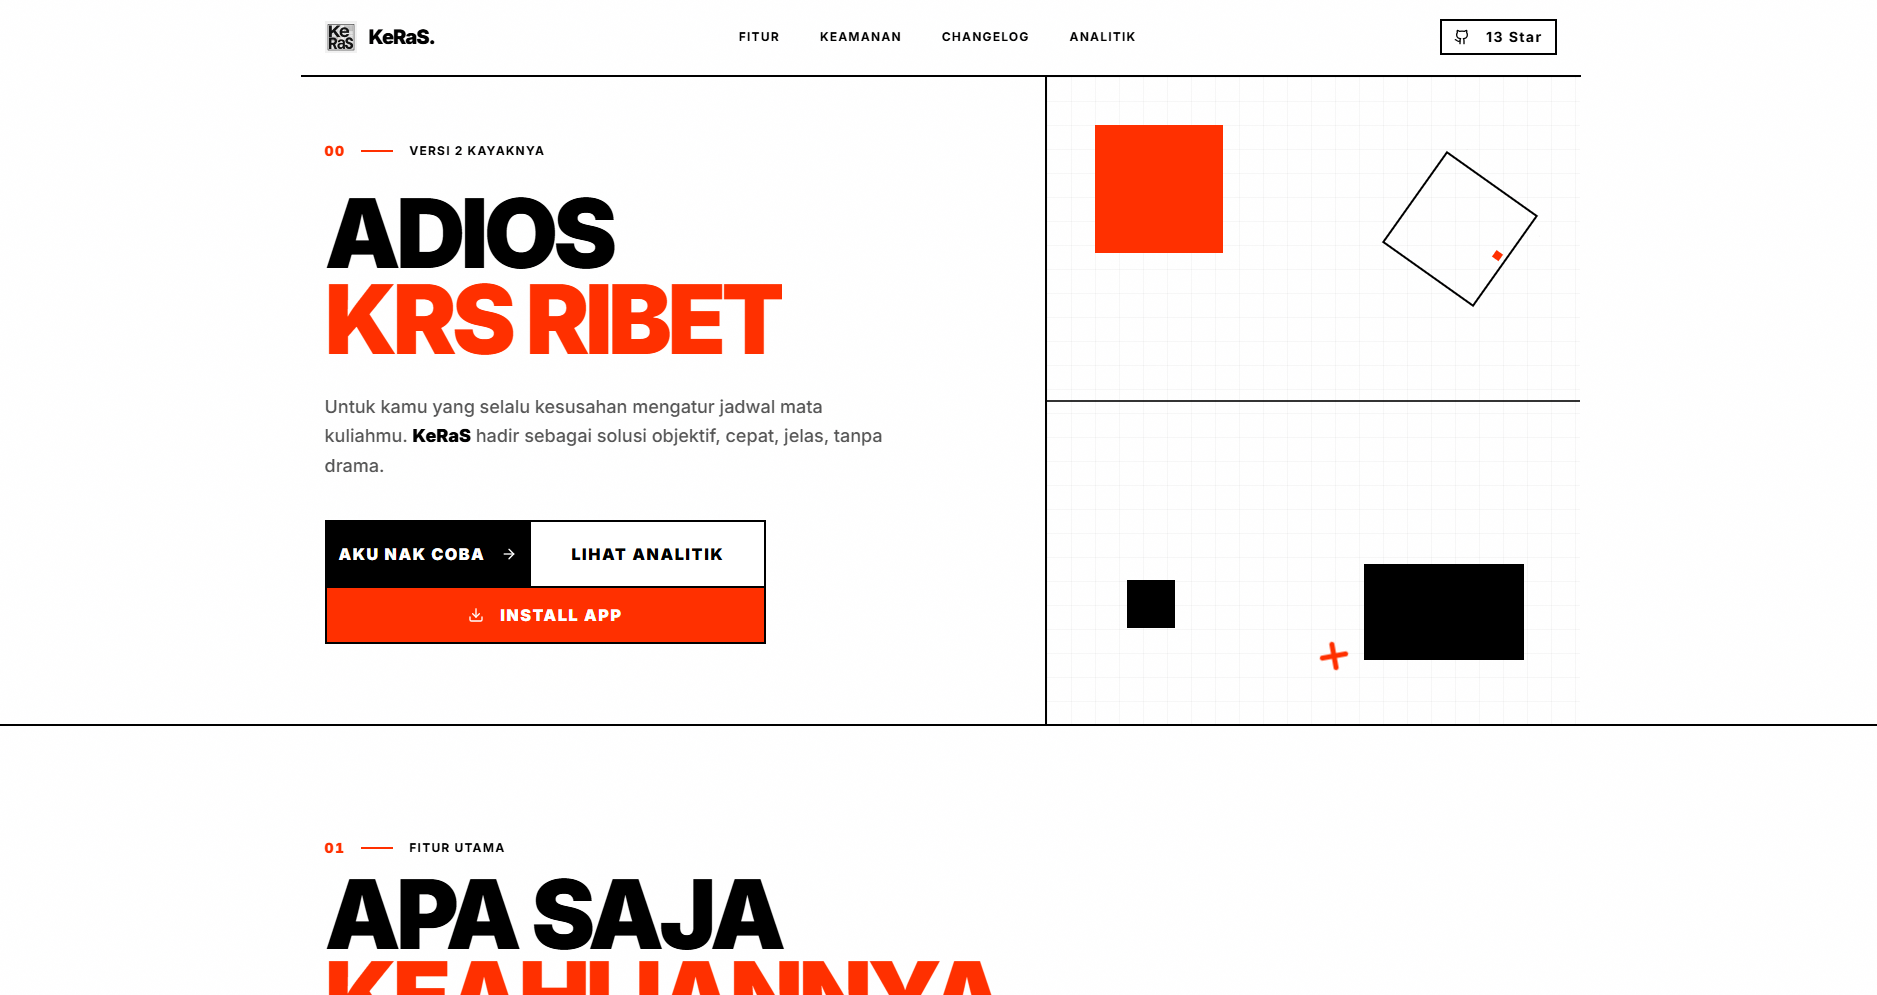
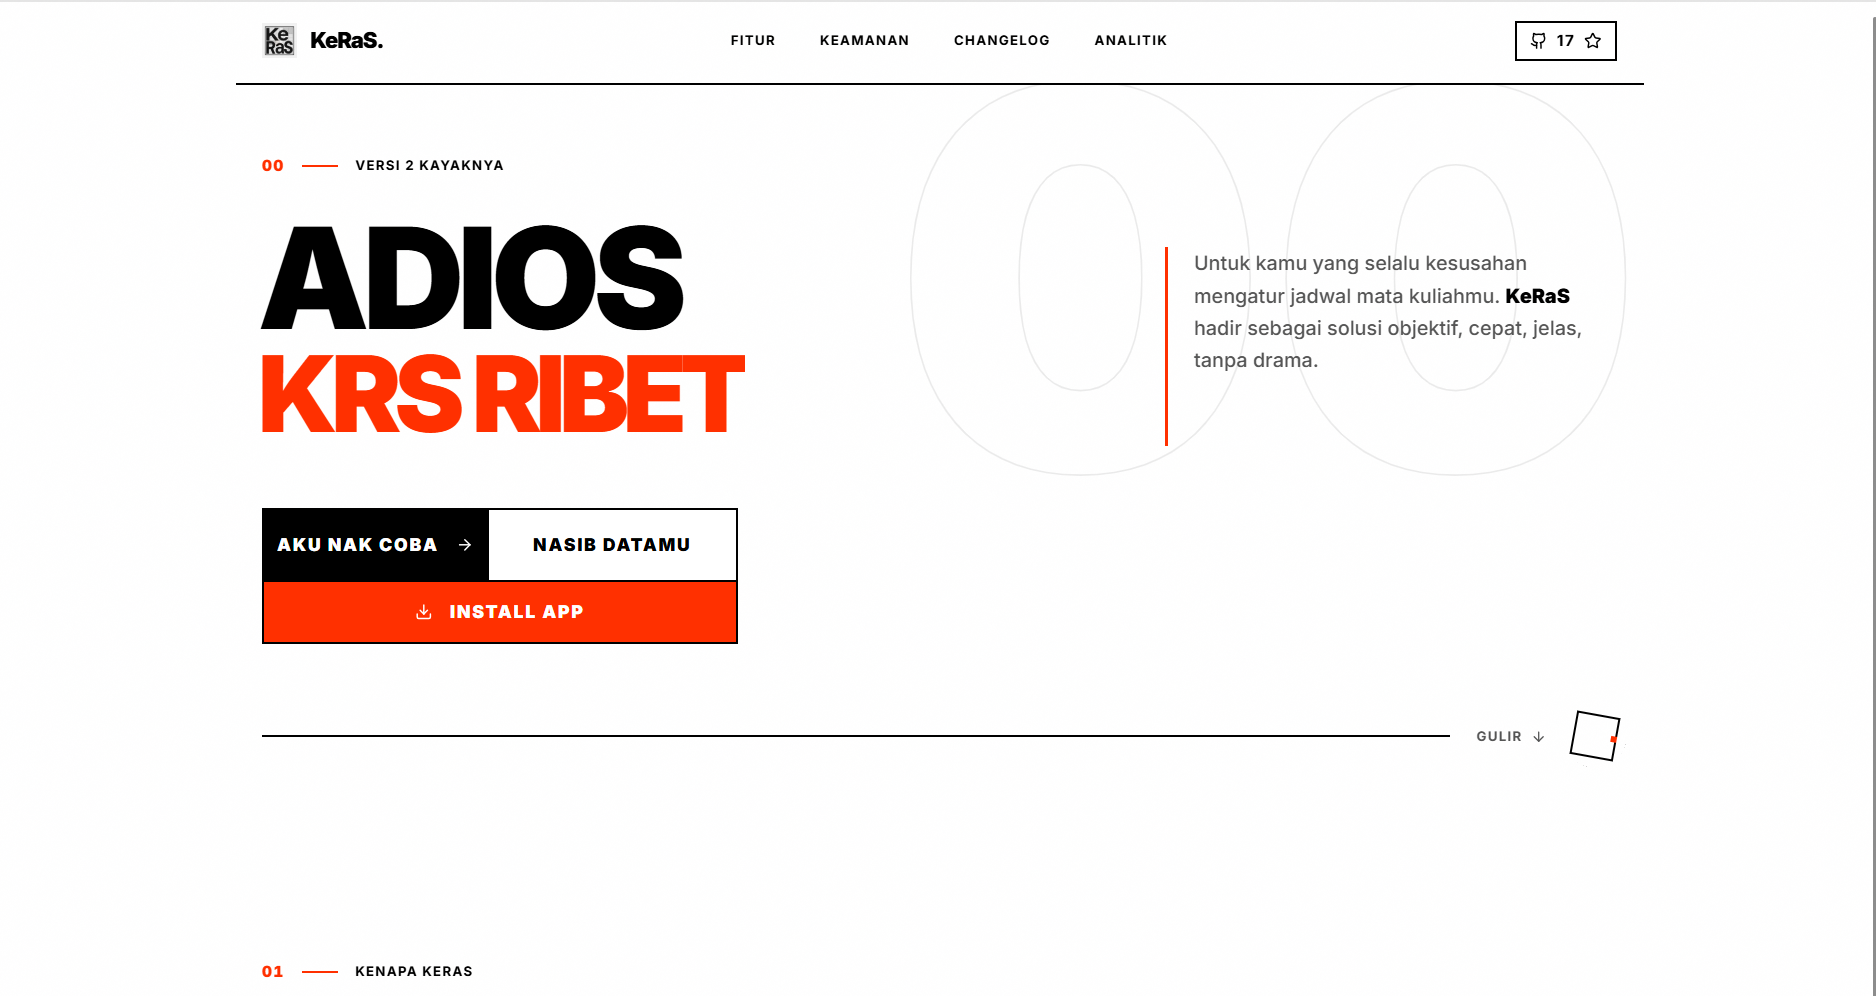
feat: add images for keras project

diff --git a/src/i18n/cv/en.cv.ts b/src/i18n/cv/en.cv.ts
@@ -209,6 +209,9 @@ export const cv: CV = {
       images: [
         "/projects/keras/1.png",
         "/projects/keras/2.png",
+        "/projects/keras/3.png",
+        "/projects/keras/4.png",
+        "/projects/keras/5.png",
       ],
       links: { repo: 'https://github.com/dendik-creation/keras', live: 'https://keras.dendikcreation.dev' },
     },

diff --git a/src/i18n/cv/id.cv.ts b/src/i18n/cv/id.cv.ts
@@ -211,6 +211,9 @@ export const cv: CV = {
       images: [
         "/projects/keras/1.png",
         "/projects/keras/2.png",
+        "/projects/keras/3.png",
+        "/projects/keras/4.png",
+        "/projects/keras/5.png",
       ],
       links: { repo: 'https://github.com/dendik-creation/keras', live: 'https://keras.dendikcreation.dev' },
     },
